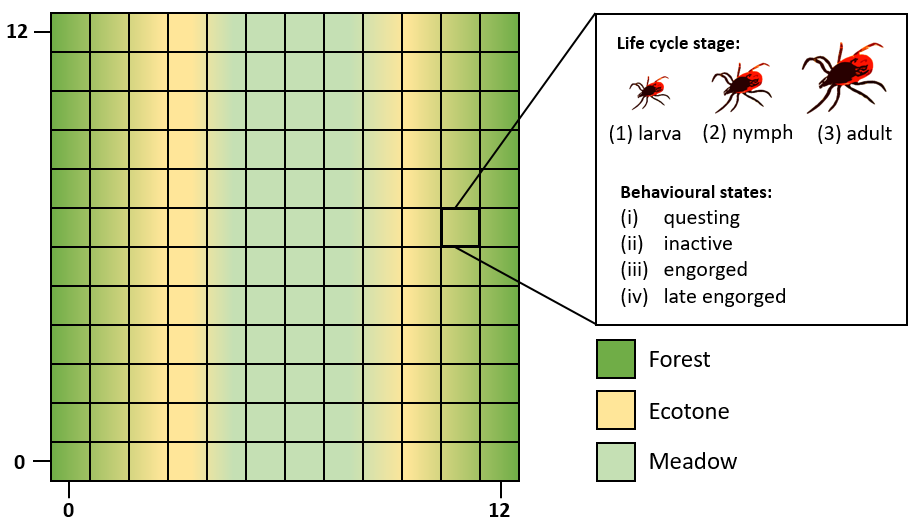
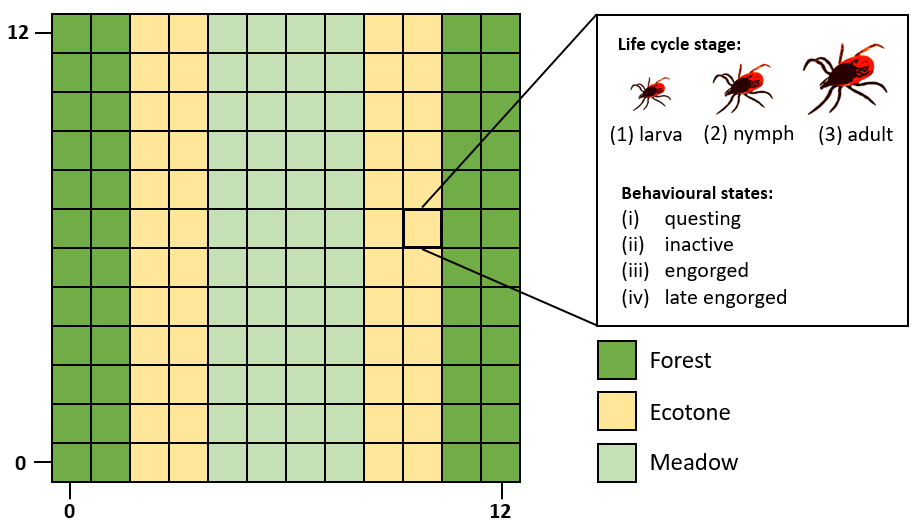
Update section Basic principles of ODD protocol

Changed region(s): [[0.0, 0.0, 0.6114, 0.9981], [0.6114, 0.0, 1.0, 0.9074]]

diff --git a/documents/odd/iris_odd.tex b/documents/odd/iris_odd.tex
@@ -163,20 +163,26 @@ The process \inlinecode{Weather} is responsible for setting the daily temperatur
 The multi-year life cycle of the modelled ticks is captured indirectly. This is done by assigning a certain number of ticks at the beginning of a simulation run, so that each life cycle stage is represented in the model through its respective cohort.
 
 \begin{figure}[h!]
-	\centering
-	\includegraphics[width=0.3\linewidth]{figures/IRIS_scheduling.PNG}
-	\caption{Overview over the scheduling of model processes}
-	\label{fig:iris_scheduling}
+\centering
+\includegraphics[width=0.3\linewidth]{figures/IRIS_scheduling.PNG}
+\caption{Overview over the scheduling of model processes}
+\label{fig:iris_scheduling}
 \end{figure}
 
 
 \newpage
 \section{Design Concepts}\label{design_concepts}
+\emph{Basic principles:} IRIS is a spatially explicit stochastic cohort-based tick population model. It is composed of grid cells with sub populations of \textit{I. ricinus} ticks belonging to a cohort. Each cohort represents a tick life cycle stage together with a behavioural state. Three tick life cycle stages are possible: (1)  \emph{larvae}, (2)  \emph{nymphs} and (3)  \emph{adults}. Furthermore, each life cycle stage can adopt one of four behavioural states: (i)  \emph{questing}, (ii)  \emph{inactive}, (iii)  \emph{engorged} and (iv)  \emph{late engorged}. The latter is a special case of the behavioural state \emph{engorged} which applies only to larvae and nymphs (see section \ref{feeding} for details). Hence, in total there are 11 tick cohorts present in the model. Technically, these cohorts exist in every cell of the model landscape, e.g. active nymphs in grid cell $(0,0)$ belong to a different cohort than active nymphs in grid cell $(3,5)$. However, for model evaluations the cohorts are considered in total. The grid cells form a model landscape that serves as habitat for \emph{I. ricinus} sub populations. Three different idealised habitat types exist in the model: (a) \emph{forest}, (b) \emph{ecotone} and (c) \emph{meadow}. Daily temperature and relative humidity influence the behaviour of the modelled ticks and thereby drive the model dynamics. With the input of future weather data from climate simulations, the model is able to simulate the expected future abundance of ticks. A visualisation of the model landscape with habitat types and tick cohorts is displayed in Figure~\ref{fig:iris_landscape}.
 
-\begin{itemize}
+\begin{figure}[h!]
+\centering
+\includegraphics[width=0.8\linewidth]{figures/IRIS_landscape.PNG}
+\caption{The IRIS model landscape consists of 12 x 12 grid cells. The colour of each grid cell indicates the habitat type: forest (dark green), ecotone (light brown) and meadow (light green). Each cell contains tick cohorts consisting of one of 3 life cycle stages (larva, nymph, adult) together with one of 4 behavioural states (questing, inactive, engorged and late engorged).}
+\label{fig:iris_landscape}
+\end{figure}
 
-\item \emph{Basic principles:}
-IRIS is a Spatially explicit stochastic cohort-based tick population model. It was implemented in Java using version 2.3.0 of the Artemis-odb Entity-Component-System framework \footnote{\url{https://github.com/junkdog/artemis-odb}}.
+IRIS was implemented in Java using version 2.3.0 of the Artemis-odb Entity-Component-System (ECS) framework\footnote{\url{https://github.com/junkdog/artemis-odb}}.
+
 
 \emph{Emergence:}
 
@@ -215,7 +221,6 @@ public int roundRandom(float value) {
 
 \emph{Observation:}
 
-\end{itemize}
 
 
 \newpage
@@ -464,7 +469,7 @@ activationRate	   										    &  0.02 & 1/day & float	& determined by optimisa
 \end{tabular}
 \end{table}
 
-\subsubsection{Feeding}
+\subsubsection{Feeding}\label{feeding}
 The sub model `feeding' controls the feeding success of ticks and includes a translocation process by which the ticks are moved to another location on the model landscape. It is implemented in the class \inlinecode{Feeding}. Feeding in the context of this model means that questing ticks find a host, attach themselves to it for their bloodmeal and drop off later at another location due to the movement of the host~\parencite{Medlock.2013}. The feeding process takes place instantaneously. Neither the individual steps of this process nor the host animals are explicitly modelled.
 
 At each time step, ticks feed across all cells of the model landscape at a specific rate that depends on their respective life cycle stage (see Table~\ref{tab:feeding_parameters}). We assume that the probability of a tick moving a certain distance is negatively correlated with the distance length (see Table~\ref{tab:distance_probabilities}). At the end of the feeding process ticks are considered engorged and the numbers in the respective cohorts are adjusted accordingly. Late feeders that find a host in or after late summer, i.e.\ approximately Mid-September do not develop to the next life cycle stage stage until the following year (Kahl 2020, personal communication). To prevent them from developing to the next life cycle stage after Mid-september in an ongoing simulation, they are assigned to a separate cohort. Table ~\ref{tab:feeding_parameters} gives an overview over the feeding parameters of the feeding sub model. The distance probabilities of the translocation process can be found in Table ~\ref{tab:distance_probabilities}.
